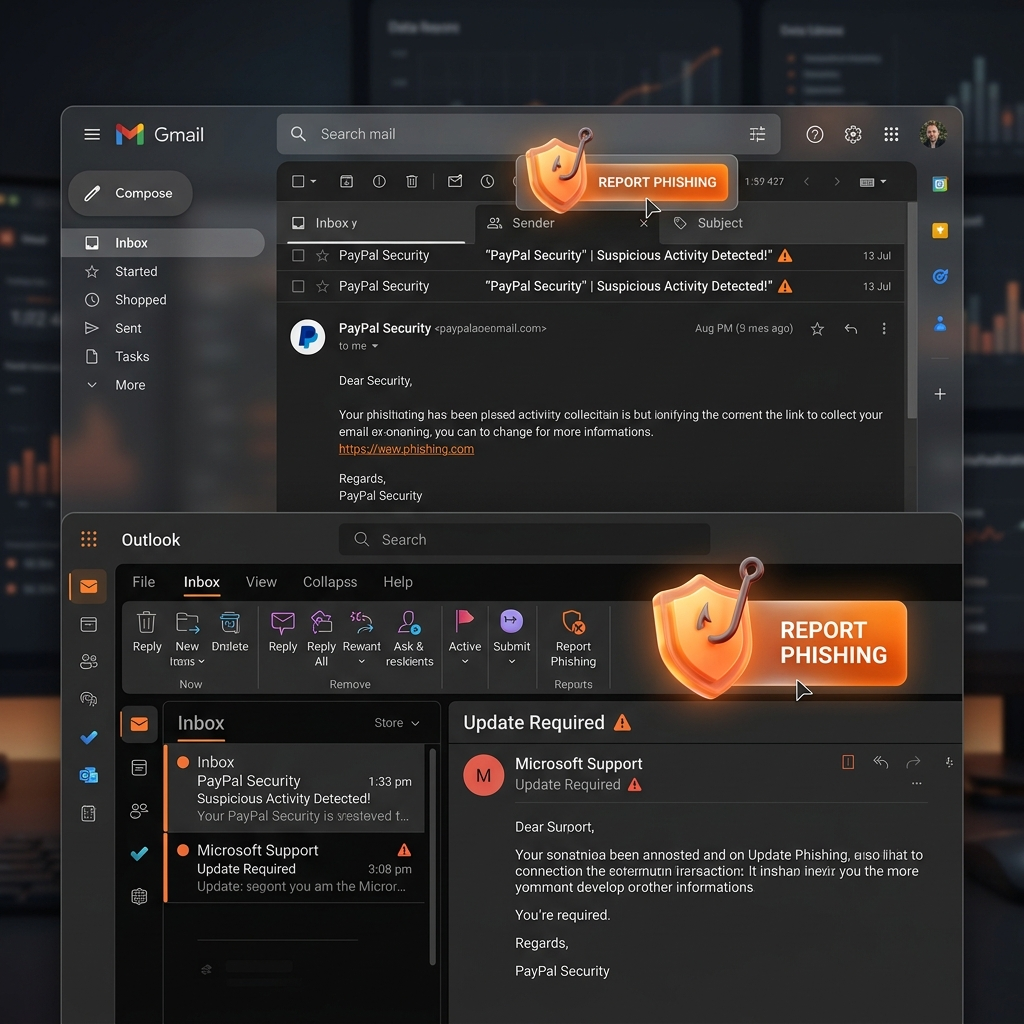
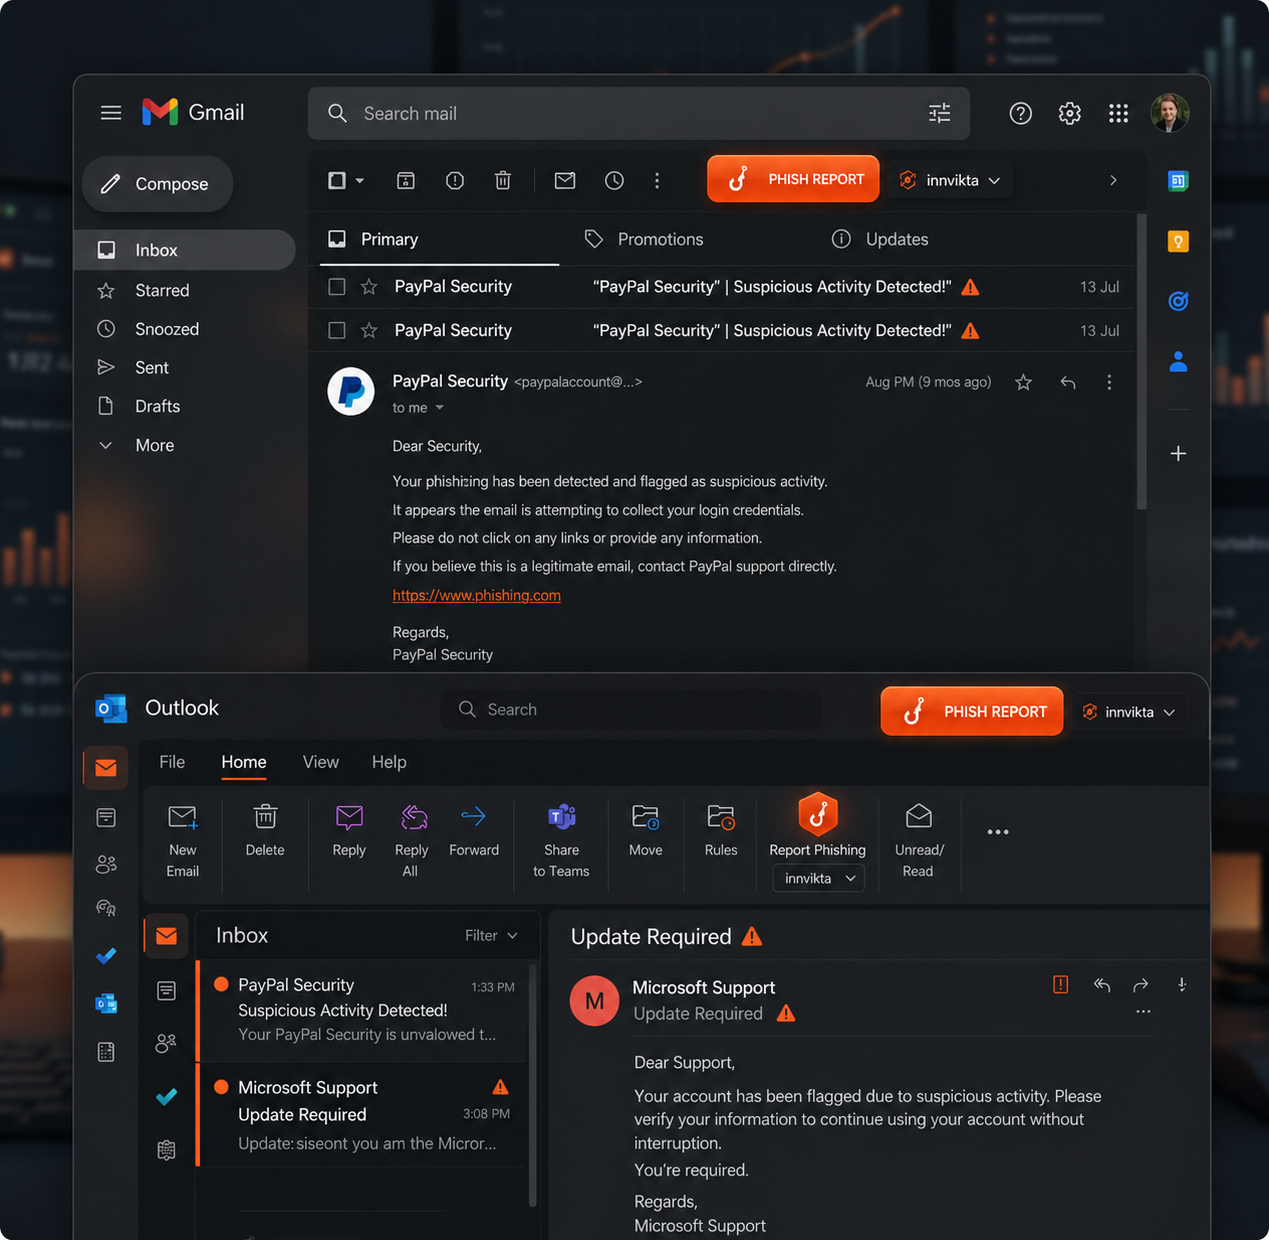
Update phishing simulation and PAB report alert button images

diff --git a/src/app/solutions/insat/sections/FeaturesGrid.js b/src/app/solutions/insat/sections/FeaturesGrid.js
@@ -28,7 +28,7 @@ export default function FeaturesGridSection() {
           <div className="feature-card animate">
             <div className="feature-visual bg-grey-30">
               <img alt="Phishing simulations mockup" loading="lazy"
-                src="/insat/images/Phiahsing_Simulation.png" />
+                src="/insat/images/phishing-simulation.png" />
             </div>
             <div className="feature-content">
               <h3 className="feature-title">Phishing Simulations</h3>
